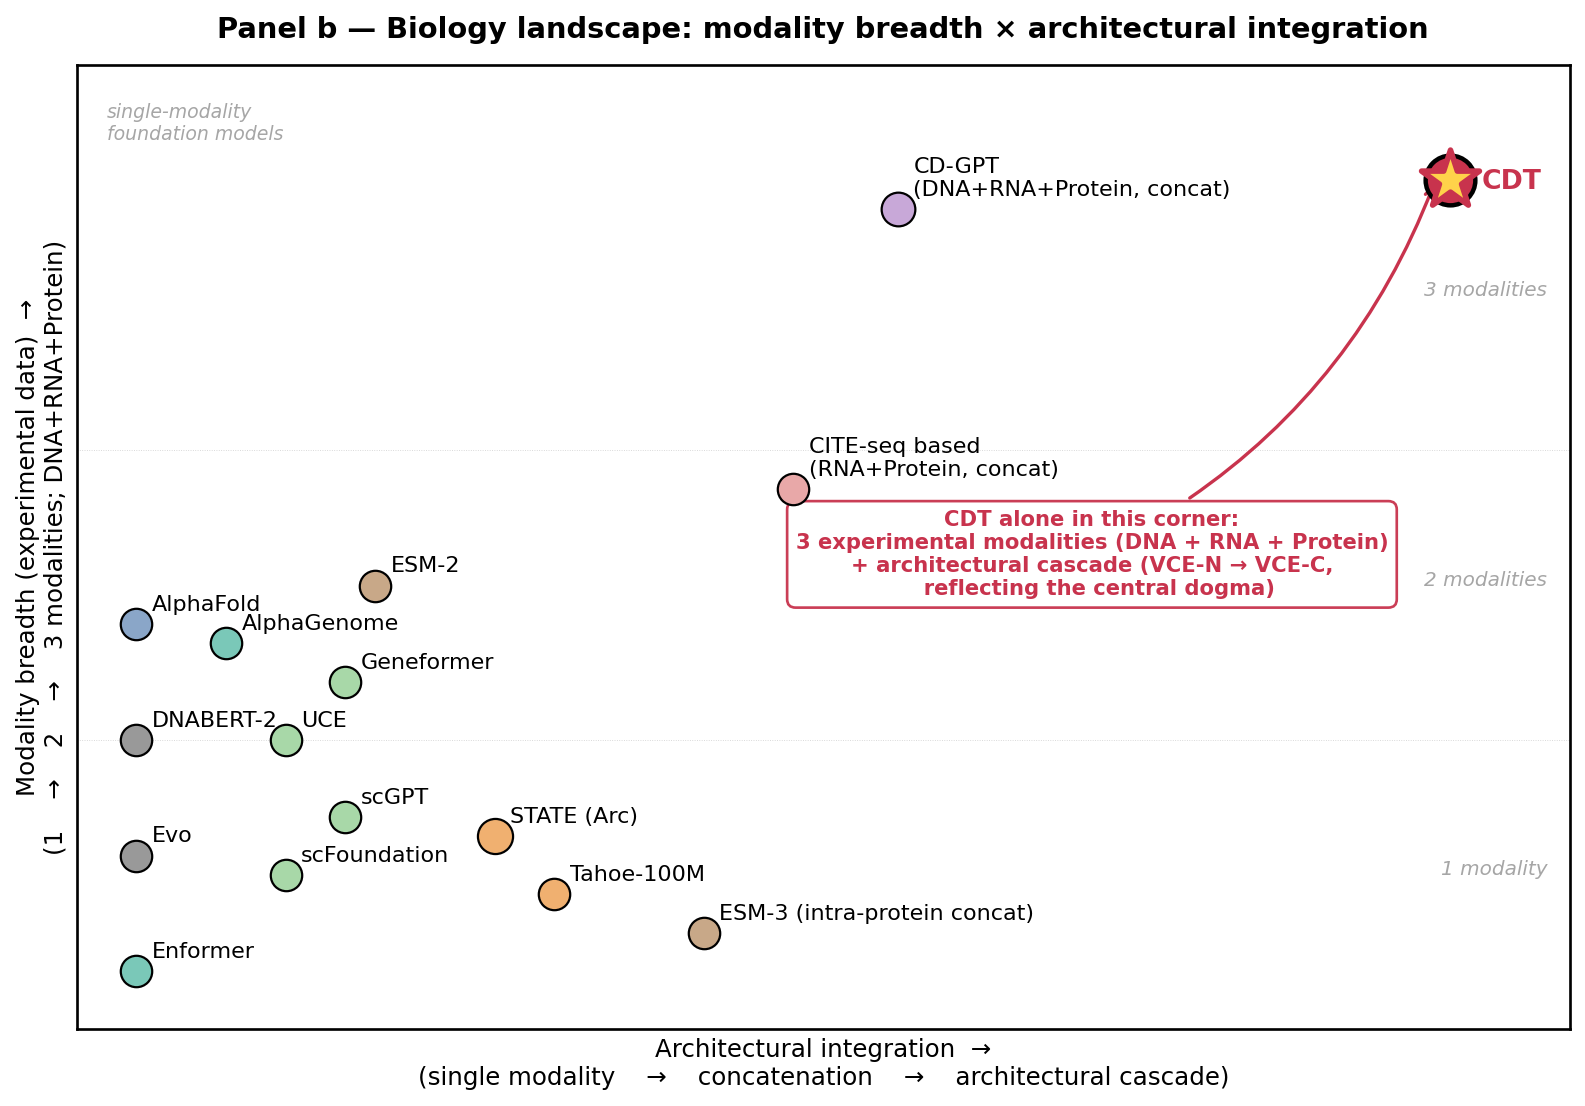
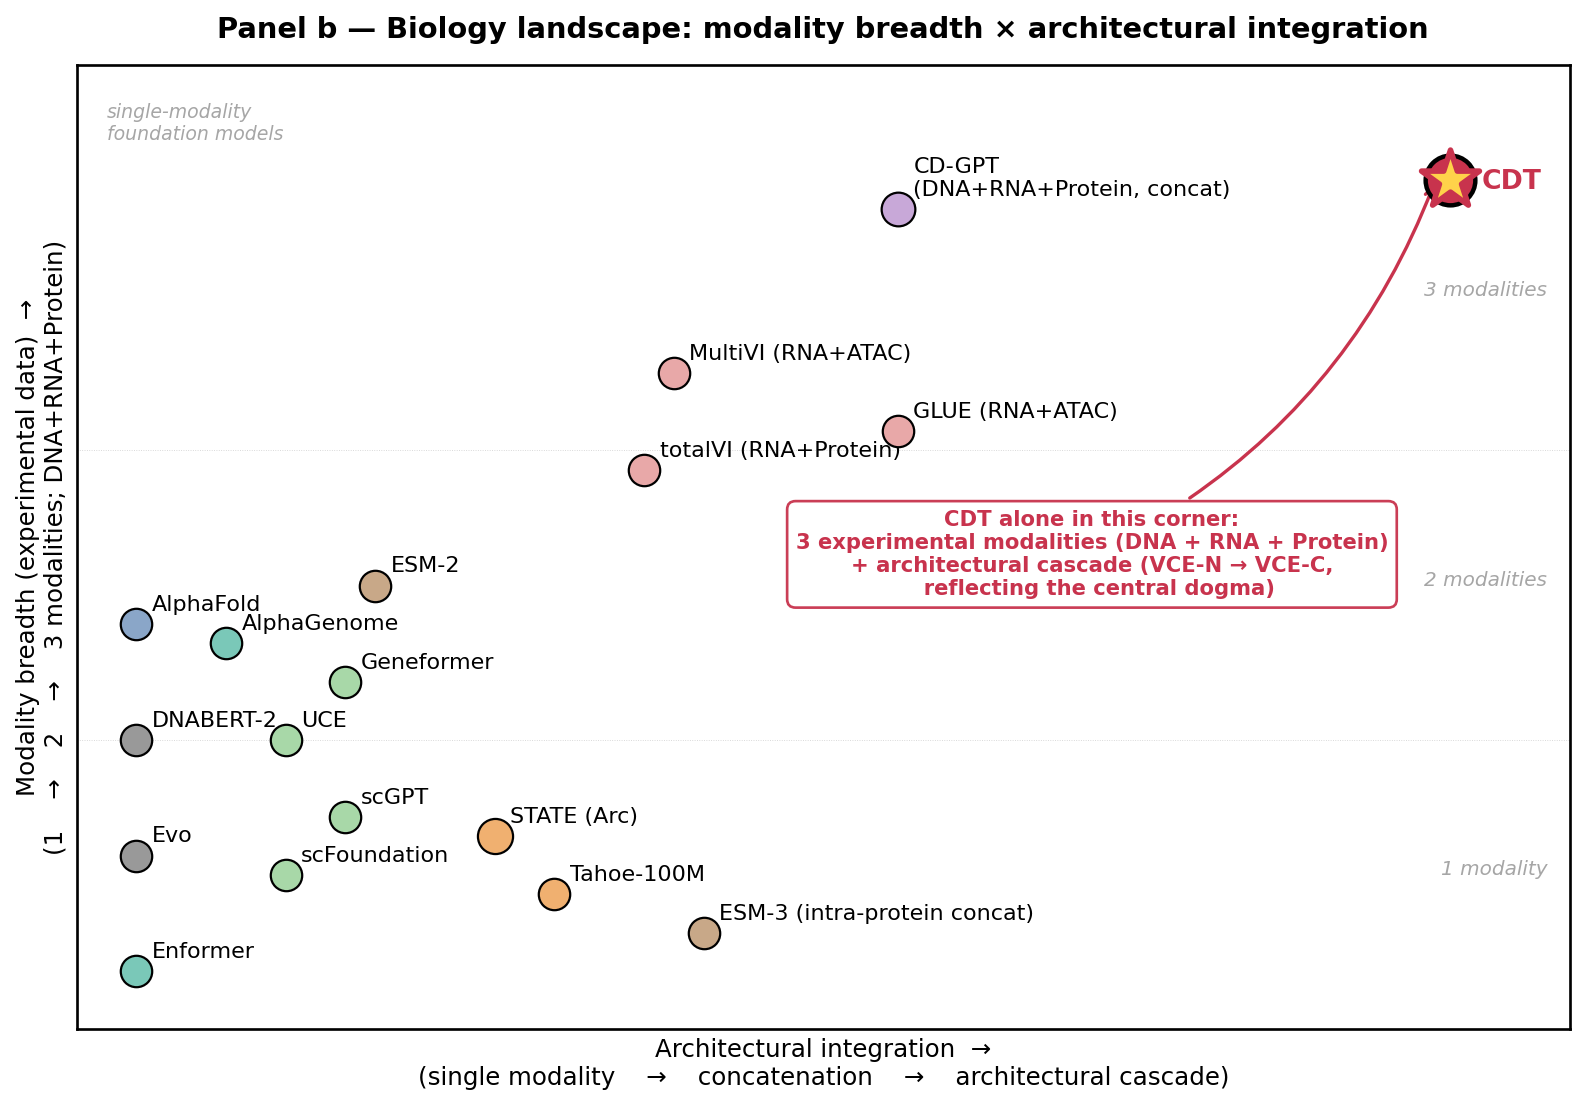
Add totalVI, MultiVI, GLUE — multi-omics integration camp
Add three canonical 2-modality integration methods to both panels:
totalVI (RNA+Protein from CITE-seq), MultiVI (RNA+ATAC), and GLUE
(RNA+ATAC graph-based). Color (light peach) distinguishes the
multi-omics integration family from sequence LMs, sequence-to-function,
and scale-driven perturbation camps.

Panel b: completes the concat-column hierarchy that contrasts with
CDT's cascade architecture —
  ESM-3 (1 biological modality, intra-protein concat) →
  totalVI / MultiVI / GLUE (2 modalities, concat) →
  CD-GPT (3 modalities, concat) →
  CDT alone at architectural-cascade column.

Replaces the generic "CITE-seq based" placeholder with specific named
methods that reviewers can verify directly.

Changed region(s): [[0.4019, 0.3689, 0.6801, 0.4611], [0.4019, 0.3074, 0.5874, 0.3689]]

diff --git a/figures/neurips/appendix/make_landscape_figs.py b/figures/neurips/appendix/make_landscape_figs.py
@@ -29,6 +29,10 @@ models_a = [
     (0.42, 0.18, "scFoundation",      "#a8d8a8", 200,  7,  6),
     (0.58, 0.22, "UCE",               "#a8d8a8", 200,  7,  6),
     (0.55, 0.32, "Geneformer",        "#a8d8a8", 200,  7,  6),
+    # Multi-omics integration (VAE / graph) — observational multi-modal data
+    (0.65, 0.42, "totalVI",           "#e8a8a8", 200,  7,  6),
+    (0.75, 0.48, "MultiVI",           "#e8a8a8", 200,  7,  6),
+    (0.68, 0.50, "GLUE",              "#e8a8a8", 200, -34, -16),
     # Scale-driven perturbation
     (0.82, 0.20, "STATE (Arc)",       "#f0b070", 250,  7,  6),
     (0.92, 0.10, "Tahoe-100M",        "#f0b070", 200, -45, -16),
@@ -125,8 +129,10 @@ models_b = [
     # Arc perturbation (orange) — slight right of green cluster
     (0.28, 0.20, "STATE (Arc)",    "#f0b070", 250,  7,  6),
     (0.32, 0.14, "Tahoe-100M",     "#f0b070", 200,  7,  6),
-    # 2-modality concat
-    (0.48, 0.56, "CITE-seq based\n(RNA+Protein, concat)", "#e8a8a8", 200,  7, 6),
+    # 2-modality concat (multi-omics integration camp)
+    (0.38, 0.58, "totalVI (RNA+Protein)",  "#e8a8a8", 200,  7,  6),
+    (0.40, 0.68, "MultiVI (RNA+ATAC)",      "#e8a8a8", 200,  7,  6),
+    (0.55, 0.62, "GLUE (RNA+ATAC)",         "#e8a8a8", 200,  7,  6),
     # 3-modality concat (CD-GPT)
     (0.55, 0.85, "CD-GPT\n(DNA+RNA+Protein, concat)", "#c8a8d8", 230,  7, 6),
     # CDT — top-right, alone